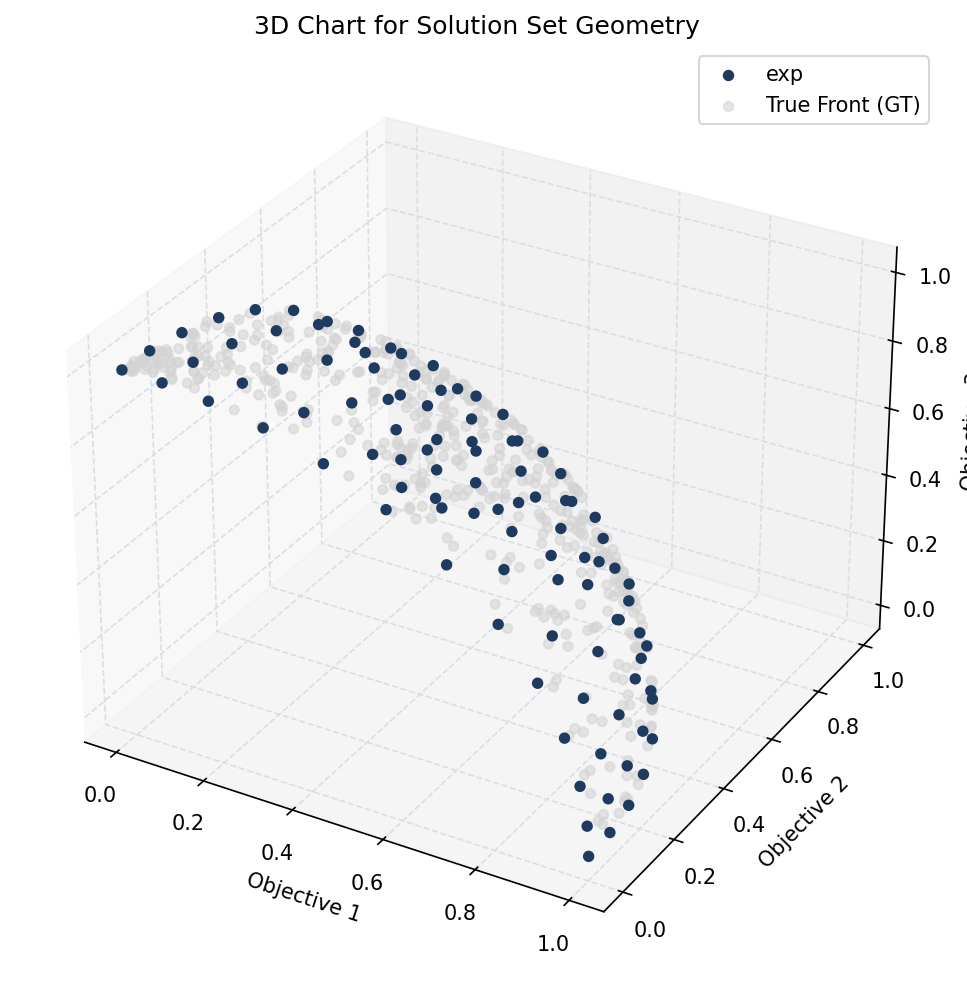
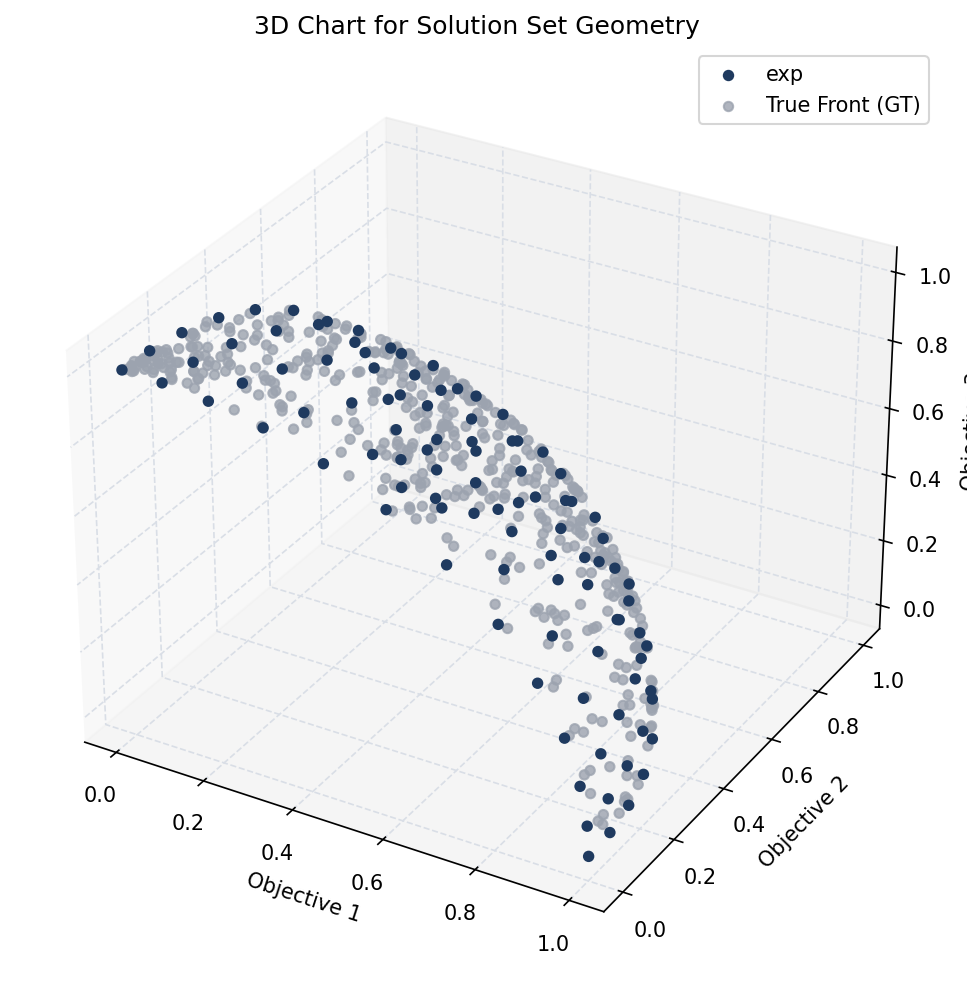
fix: output formatting problem

Changed region(s): [[0.1241, 0.3046, 0.6825, 0.8528], [0.7446, 0.0914, 0.7756, 0.1218]]

diff --git a/moeabench/plotting/scatter2d.py b/moeabench/plotting/scatter2d.py
@@ -39,7 +39,7 @@ class Scatter2D:
         self.marker_styles = kwargs.get('marker_styles', [None] * len(names))
         self.gray_gt = kwargs.get('gray_gt', True)
         self.gt_color = kwargs.get('gt_color', GT_COLOR)
-        self.gt_opacity = kwargs.get('gt_opacity', 0.55)
+        self.gt_opacity = kwargs.get('gt_opacity', 0.8)
         self.band_fill = kwargs.get('band_fill', False)
         self.line_shape = kwargs.get('line_shape', None)
         self.figure = go.Figure()

diff --git a/moeabench/plotting/scatter3d.py b/moeabench/plotting/scatter3d.py
@@ -43,7 +43,7 @@ class Scatter3D:
          self.marker_styles = kwargs.get('marker_styles', [None] * len(names))
          self.gray_gt = kwargs.get('gray_gt', True)
          self.gt_color = kwargs.get('gt_color', GT_COLOR)
-         self.gt_opacity = kwargs.get('gt_opacity', 0.55)
+         self.gt_opacity = kwargs.get('gt_opacity', 0.8)
          self.figure = go.Figure()
          self._build()
            

diff --git a/examples/example_full.py b/examples/example_full.py
@@ -4,7 +4,7 @@
 # SPDX-License-Identifier: GPL-3.0-or-later
 
 """
-Example Full: New API Walkthrough
+API Walkthrough
 ---------------------------------
 Two experiments, canonical stats API, and a full tour through
 topology, performance, attainment, strata, and clinic diagnostics.

diff --git a/moeabench/view/style.py b/moeabench/view/style.py
@@ -31,7 +31,7 @@ MOEABENCH_PALETTE = [
 ]
 
 # Semantic colors stay fixed across charts and do not rotate with the palette.
-GT_COLOR = "#D3D3D3"
+GT_COLOR = "#9CA3AF"
 GRID_COLOR = "#D9DEE6"
 TEXT_MUTED = "#6B7280"
 MEDIAN_COLOR = "#8D99AE"
